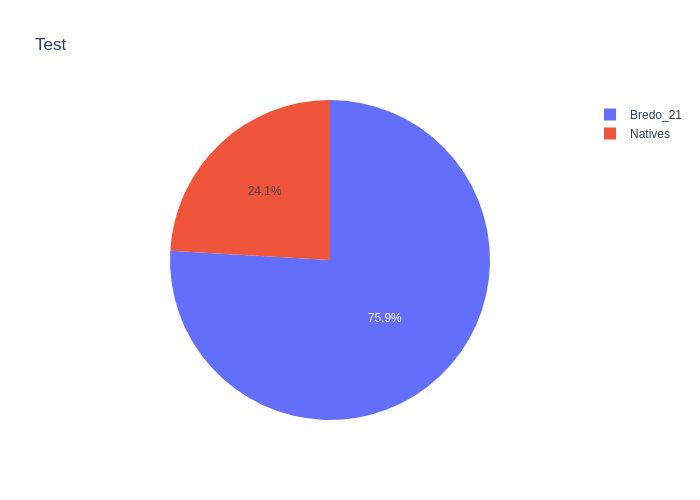
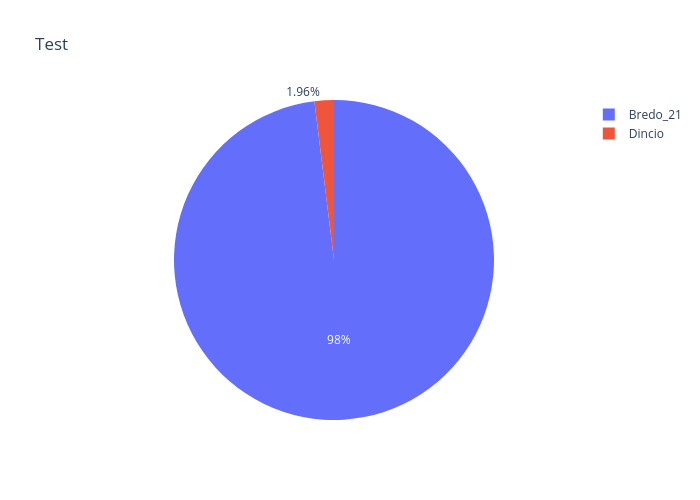
Not showing special units on nation info

diff --git a/nation_game/utils.py b/nation_game/utils.py
@@ -4,6 +4,10 @@ from pathlib import Path
 import os
 from inspect import getsourcefile
 import time
+from funcy import compose
+from result import Err, Ok
+from functools import partial, reduce
+import operator as op
 
 SRC_PATH = Path(os.path.abspath(getsourcefile(lambda:0))).parent
 
@@ -30,3 +34,31 @@ def wait_until_connected(delay, trace=False):
         else:
             print(f'Connection failed... checking again in {delay}s')
             time.sleep(delay)
+
+def indices(pred, l):
+    return [index for index, v in enumerate(l) if pred(v)]
+
+def all_prefix_matches(validator, to_validate):
+    return map(
+        lambda i: to_validate[i],
+        indices(
+            partial(op.eq, True),
+            list(map(
+                compose(
+                    all,
+                    partial(map, partial(reduce, op.eq))),
+                map(
+                    compose(list, partial(zip, validator)),
+                    to_validate)))))
+
+def unique_prefix_match(validator, to_validate):
+    prefix_matches = list(all_prefix_matches(validator, to_validate))
+
+    if len(prefix_matches) == 0:
+        return Err('ERR: None')
+
+    elif len(prefix_matches) > 1:
+        return Err('ERR: Ambiguous')
+
+    else:
+        return Ok(prefix_matches[0])

diff --git a/nation_game/nation_game.py b/nation_game/nation_game.py
@@ -1,8 +1,10 @@
 from telegram.ext import CommandHandler, ConversationHandler, MessageHandler
 from telegram.ext.filters import Filters
 from numbers import Number
+import operator as op
 import graphviz
 import random
+import math
 import re
 from lenses import lens, bind
 from pathlib import Path
@@ -503,7 +505,11 @@ def show_nation_info(upd, ctx):
 
     # Print piechart of armies
     df = pd.DataFrame.from_dict(
-        nation['Armies']
+        filter(
+            # 1: removes the leading `_`
+            lambda a: a['Owner'][1:] not in SPECIAL_UNIT_TYPES,
+            nation['Armies']
+        )
     )
 
     fig = px.pie(df, values='Strength', names='Owner', title='Test')
@@ -518,7 +524,7 @@ def show_nation_info(upd, ctx):
     # Print attack relationships
     dot = graphviz.Digraph(comment='Offensive plans')
     for army in nation['Armies']:
-        dot.node(army['Owner'])
+        dot.node(f'{army["Owner"]} ({math.floor(army["Strength"])})')
         for opp in army['Fighting']:
             dot.edge(army['Owner'], opp)
 
